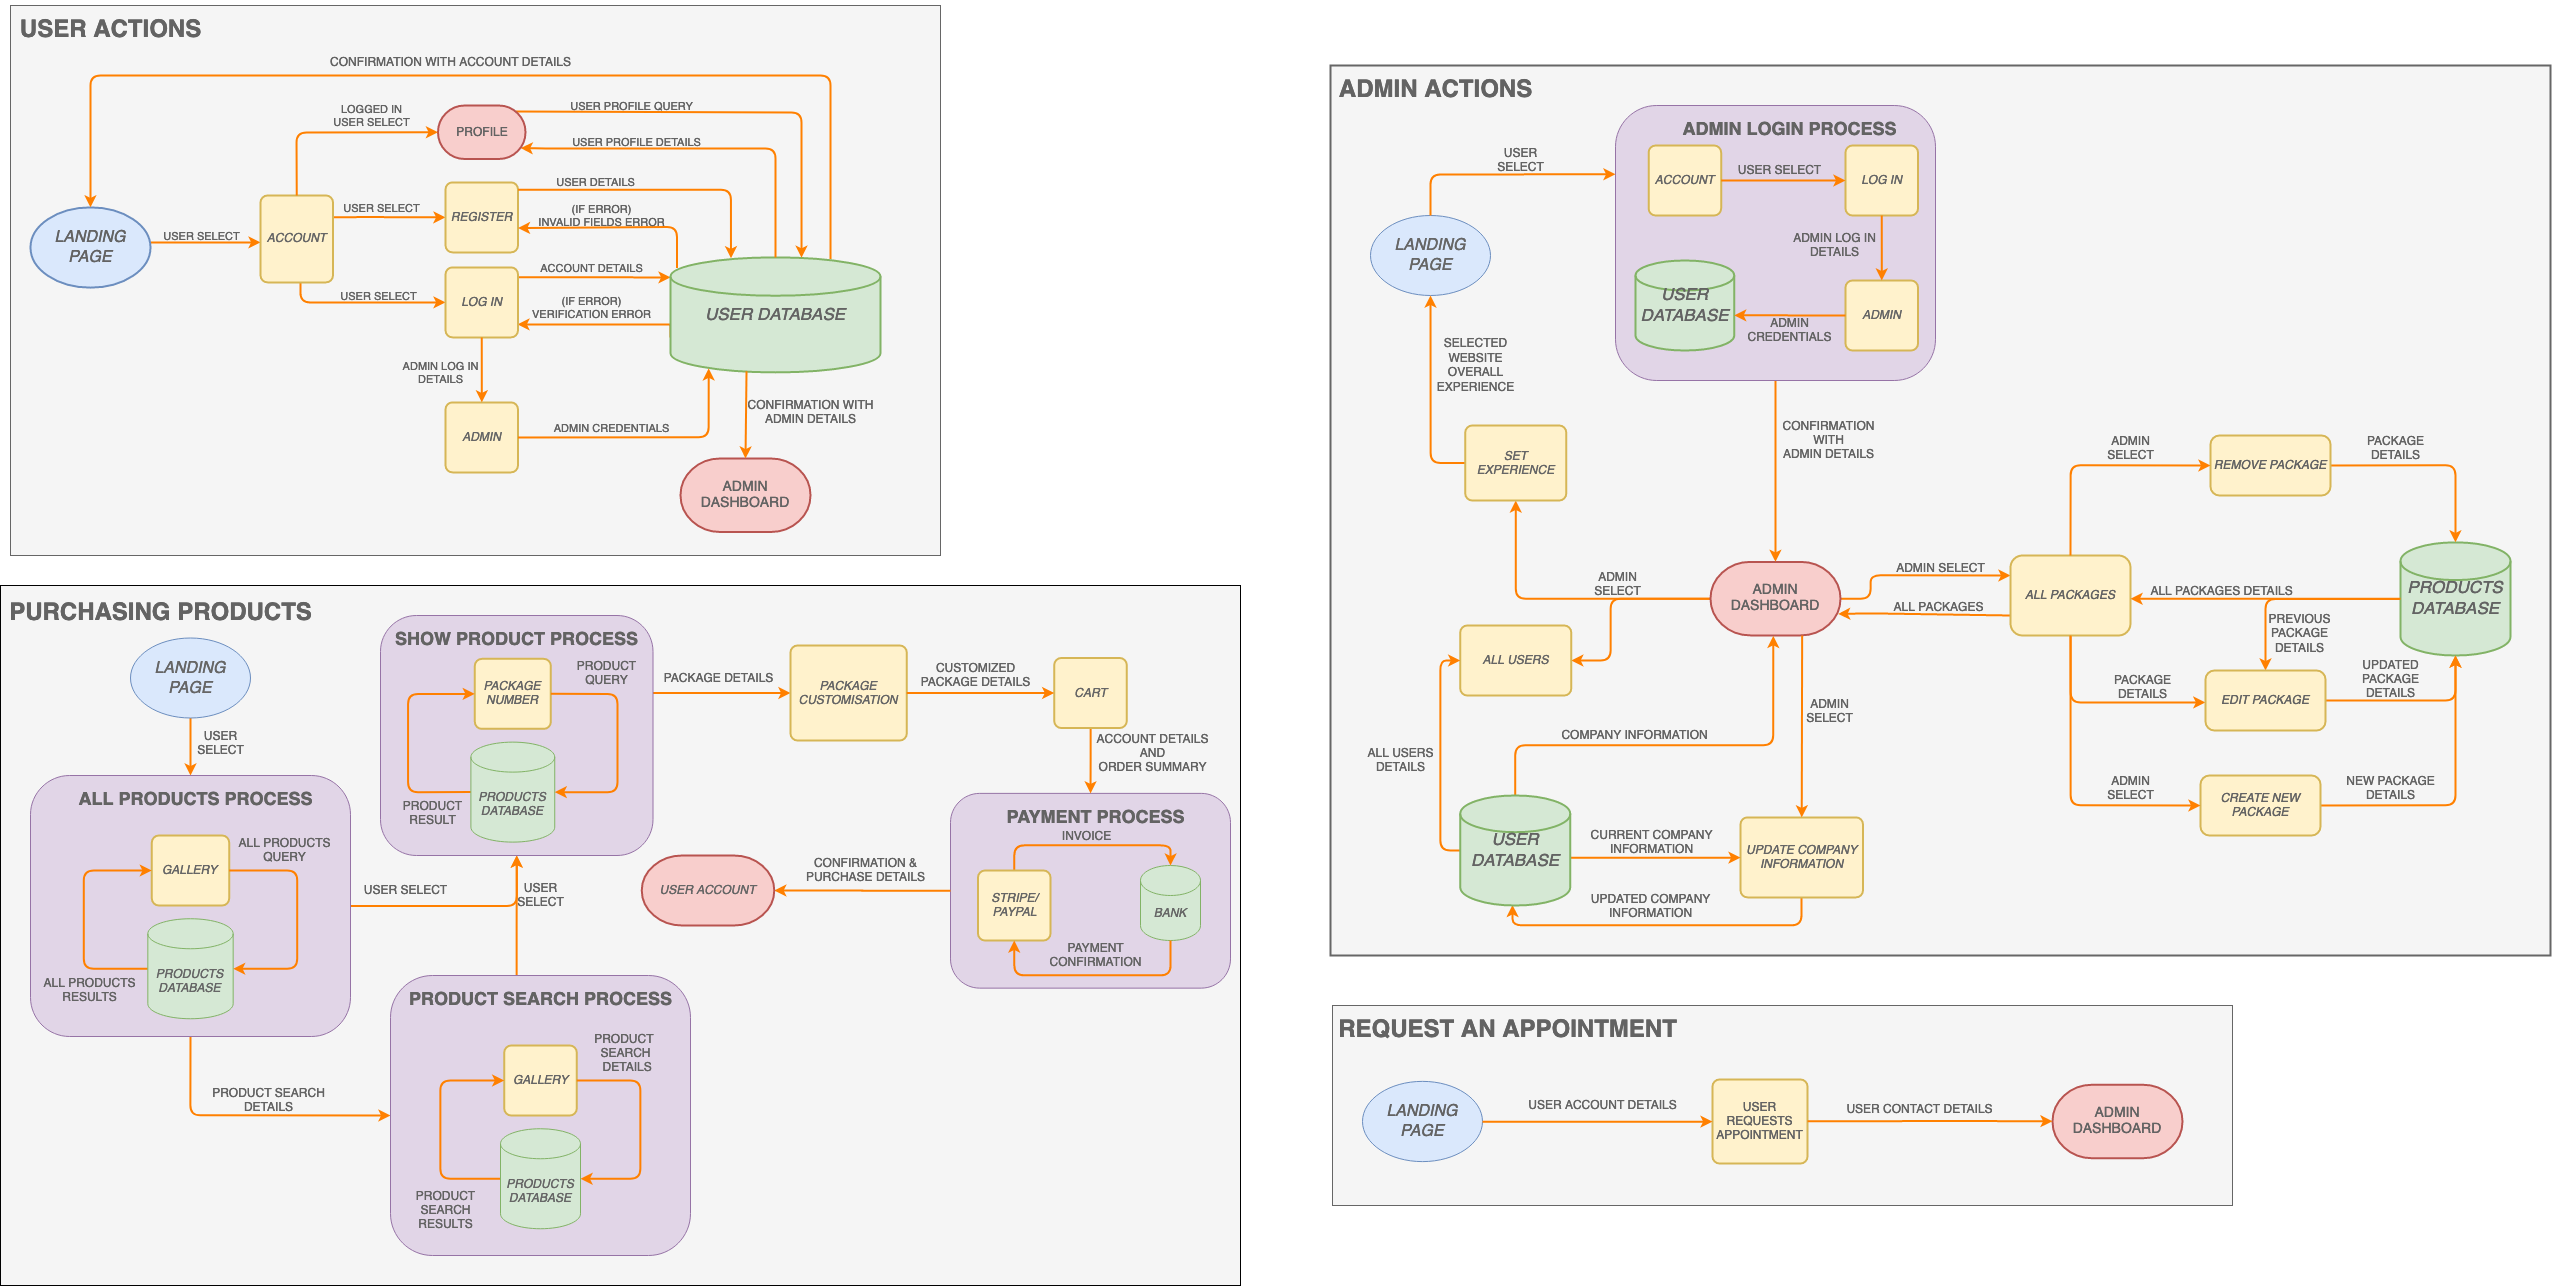
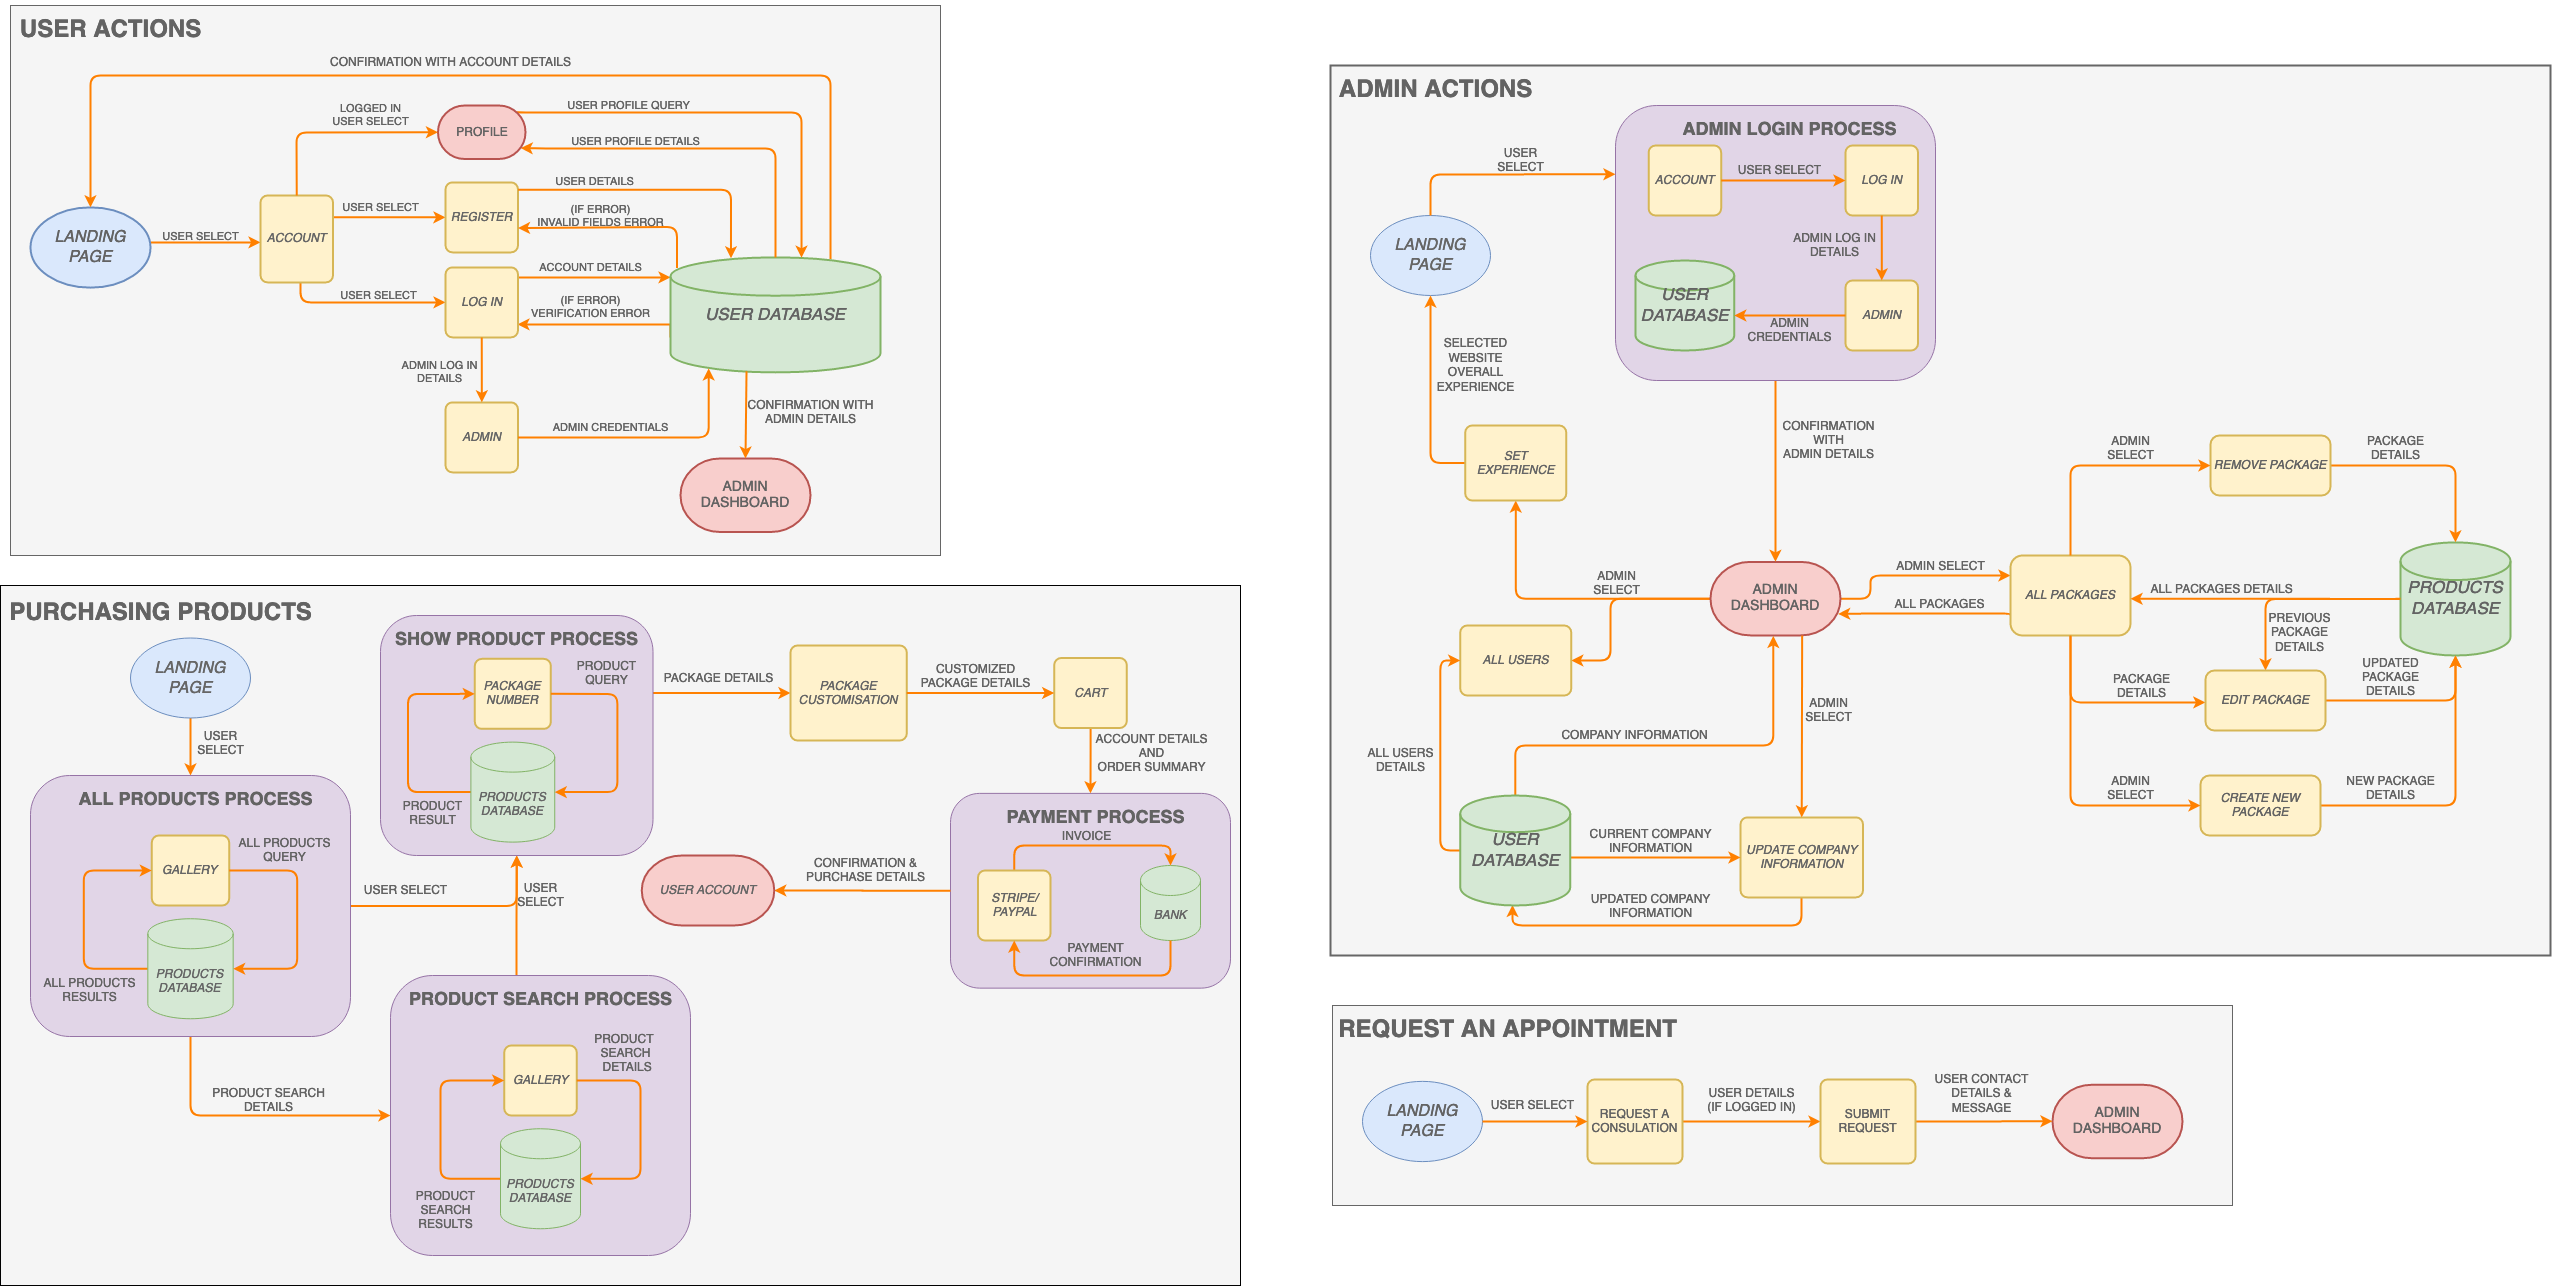
updates tech stack section and diagrams post client meeting

diff --git a/README.md b/README.md
@@ -34,10 +34,6 @@ Back-End Source code: [BE Repo](https://github.com/philrussel21/curtain_co_BE)
 
 ---
 
-## Description
-
----
-
 ## Purpose
 
 The purpose of the app is to migrate the client’s business, along with her ideas, into a dynamic website. This website embodies elegance and sophistication to bring a unique experience to its users.
@@ -47,7 +43,7 @@ It would be the client’s platform where she can share her suggestions and expe
 
 ## Features and Functionalities
 
-### Current features:
+### MVP features:
 
 #### Admin Role
 
@@ -84,18 +80,45 @@ The target audience of this website are users that are willing to spend a little
 
 ---
 
-## Tech Stack and Resources
+## Tech Stack
 
-- MongoDB
-- ExpressJS
-- ReactJS
-- NodeJS
-- Stripe/Paypal API Integration
+### ReactJS
+
+- A Javascript library used for building user interfaces and the overall Front End of the app.
+
+### NodeJS
+
+- A Javascript runtime built on Chrome's V8 Javascript engine used for building the back-end API service of the app.
+
+### MongoDB - Atlas
+
+- A global cloud database service for modern applications used as the database for this app.
+
+### Paypal API Integration
+
+- The faster, safer way to pay online without sharing financial details used to handle payments securely for this app.
 
 ### Netlify
 
-<!-- - [Netlify](https://www.netlify.com/)
-  - for deployment -->
+- Hosting service to be used for deploying the React Front-End side of the app.
+
+### Heroku
+
+- Hosting service to be used for deploying the Node-Express Back-End side of the app.
+
+### Figma
+
+- Web App used to create wireframes and initial mockups.
+
+### Trello
+
+- Workflow and Task management system used throughout the life of the project.
+
+### Git & Github
+
+- Version control system along with its hosting service used for collaboration.
+
+## Resources
 
 ### Material UI
 
@@ -124,6 +147,18 @@ The target audience of this website are users that are willing to spend a little
 
 ---
 
+## Dependancies
+
+- Express
+- Passport
+- passport-local
+- Mongoose
+- Connect-mongo
+- express-session
+- Mongoose-bcrypt
+- nodemon
+- dotenv
+
 ## Dataflow Diagram
 
 ![Curtain Co Dataflow Diagram](/docs/DataFlow_Diagram.png)
@@ -132,7 +167,7 @@ The target audience of this website are users that are willing to spend a little
 
 ## Application Architecture Diagram
 
-![Curtain Co Application Arhictecture Diagram](/docs/Curtain_Co_AAD.png)
+![Curtain Co Application Arhictecture Diagram](/docs/Curtain_co_AAD.png)
 
 ---
 
@@ -190,7 +225,7 @@ The target audience of this website are users that are willing to spend a little
 Built with Figma
 
 - [Sitemap](https://www.figma.com/file/UHm86rh8y2z1ELencrFId1/Sitemap?node-id=0%3A1)
-  ![Curtain Co Sitemap](/docs/Curtain_Co_Sitemap.png)
+  ![Curtain Co Sitemap](/docs/CurtainCoSitemap.png)
 - [Wireframes](https://material-ui.com/)
 
 ---
